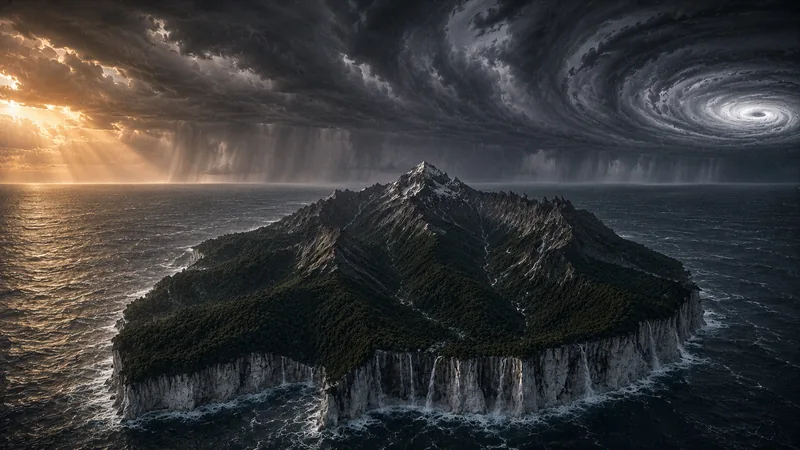
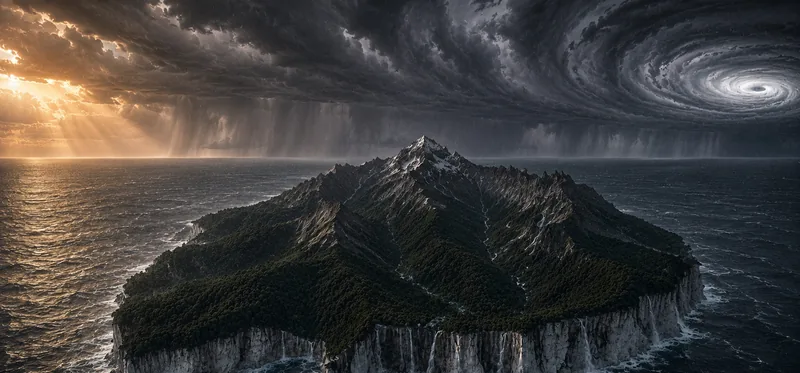
Fix Landfall hero: z-index stacking, image ratio match
- Add z-index:2 to lf-hero-section and lf-manifesto (fixes blue strip bleed)
- Resize hero-landfall.webp to 1913x892 matching hero-mountain.webp ratio
- Resize hero-landfall-mobile.webp to 800x373
- Update srcset width and img dimensions in HTML

Authored and reviewed by Basho Parks, Copyright 2026

diff --git a/css/style.css b/css/style.css
@@ -2091,7 +2091,7 @@ a.risk-card--link:hover {
 /* ═══ LANDFALL PREORDER PAGE (Session 65) ═══ */
 
 /* Hero with background image */
-.lf-hero-section { position: relative; min-height: 80vh; display: flex; flex-direction: column; align-items: center; justify-content: center; text-align: center; padding: 140px 32px 80px; overflow: hidden; }
+.lf-hero-section { position: relative; z-index: 2; min-height: 80vh; display: flex; flex-direction: column; align-items: center; justify-content: center; text-align: center; padding: 140px 32px 80px; overflow: hidden; }
 .lf-hero-bg { position: absolute; inset: 0; z-index: 0; }
 .lf-hero-bg img { width: 100%; height: 100%; object-fit: cover; object-position: center 30%; }
 .lf-hero-bg::after { content: ''; position: absolute; inset: 0; background: linear-gradient(180deg, rgba(15,23,42,0.25) 0%, rgba(15,23,42,0.05) 30%, rgba(15,23,42,0.05) 50%, rgba(15,23,42,0.4) 75%, rgba(15,23,42,0.9) 100%); pointer-events: none; }
@@ -2108,7 +2108,7 @@ a.risk-card--link:hover {
 @keyframes lfScrollPulse { 0%, 100% { opacity: 0.3; } 50% { opacity: 1; } }
 
 /* Manifesto */
-.lf-manifesto { padding: 80px 32px; background: var(--secondary-dark); border-top: 1px solid rgba(245,158,11,0.12); border-bottom: 1px solid rgba(245,158,11,0.12); }
+.lf-manifesto { position: relative; z-index: 2; padding: 80px 32px; background: var(--secondary-dark); border-top: 1px solid rgba(245,158,11,0.12); border-bottom: 1px solid rgba(245,158,11,0.12); }
 .lf-manifesto-inner { max-width: 820px; margin: 0 auto; }
 .lf-manifesto blockquote { font-family: 'Space Grotesk', sans-serif; font-size: clamp(1.3rem, 3vw, 2rem); font-weight: 500; color: var(--text-light); line-height: 1.4; border-left: 3px solid var(--copper); padding-left: 28px; margin-bottom: 28px; }
 .lf-manifesto p { color: var(--text-muted); line-height: 1.75; margin-bottom: 16px; }

diff --git a/landfall-preorder.html b/landfall-preorder.html
@@ -150,7 +150,7 @@
 
   <!-- Hero background photo -->
   <div class="hero-photo">
-    <img srcset="images/hero-landfall-mobile.webp 800w, images/hero-landfall.webp 1536w" sizes="100vw" src="images/hero-landfall.webp" alt="Island Mountain Landfall Series" fetchpriority="high" decoding="async" width="1536" height="864">
+    <img srcset="images/hero-landfall-mobile.webp 800w, images/hero-landfall.webp 1913w" sizes="100vw" src="images/hero-landfall.webp" alt="Island Mountain Landfall Series" fetchpriority="high" decoding="async" width="1913" height="892">
   </div>
 
   <nav class="navbar">